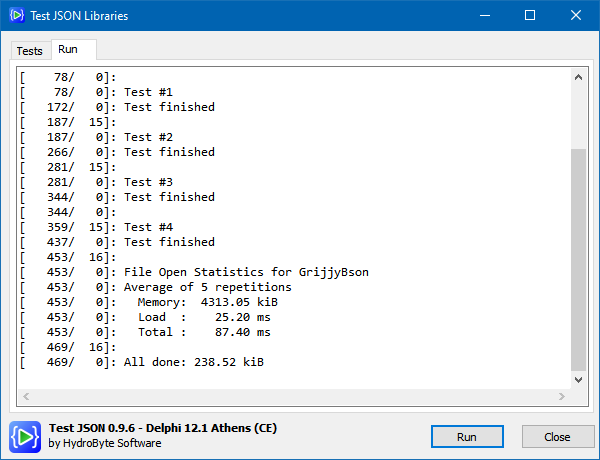
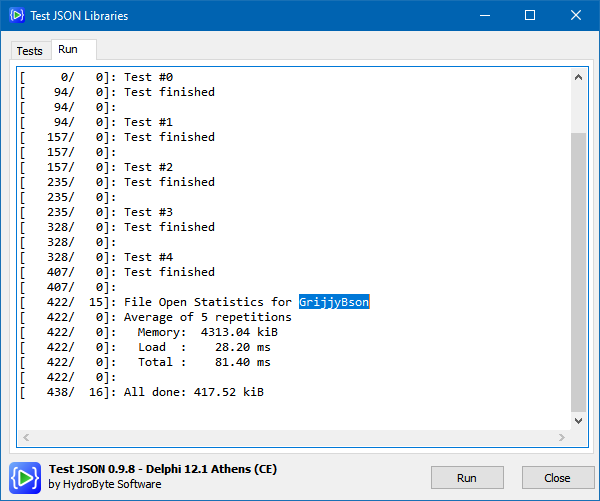
Update Open file tests. Update README.md Conclusions.

diff --git a/README.md b/README.md
@@ -188,10 +188,10 @@ This is a simple test to open files with any library included into this project 
 
 Library             |  Memory | Factor    | Load Time | Pitfalls          |
 :-------------------|--------:|----------:|----------:|------------------:|
-`JsonDataObjects`   |  2143.2 |        2x |     12.20 | Leaks memory      |
-`JsonDoc`           |  1672.9 |        2x |     59.40 |                   |
-`Grijjy.Bson`       |  4313.1 |        4x |     25.20 | Leaks memory      |
+`JsonDataObjects`   |  2143.2 |        2x |     12.20 |                   |
+`Grijjy.Bson`       |  4313.1 |        4x |     28.20 |                   |
 `dwsJSON`           |  4776.2 |        5x |     15.40 |                   |
+`JsonDoc`           |  5024.6 |        5x |     18.80 |                   |
 `Neslib.Json`       |  4676.6 |        5x |     21.80 |                   |
 `LkJson`            |  6291.7 |        6x |     72.00 |                   |
 `SuperObject`       |  7180.1 |        7x |     68.60 |                   |
@@ -212,22 +212,22 @@ Notes:
 - Allocation Factor = Round(Memory in kiB / 1000 kiB).
 - Load time in milliseconds.
 
-The Top-Three libraries with the lowest memory consumption are: `JsonDoc`, `JsonDataObjects` and `Grijjy.Bson`. These last two presented problems of Memory Leaking, but the `TLib` descendant classes use simple Create, LoadFromFile/Parse and Free methods.
+The Top-Three libraries with the lowest memory consumption (allocation factor) are: `JsonDataObjects`, `Grijjy.Bson` and `dwsJSON`. It is worth highlighting the superior performance of the combined factors from `JsonDataObjects`.
 
-The Top-Three fastest libraries in terms of loading time are: `JsonDataObjects`, `dwsJSON` and `Neslib.Json`. This last one keeps consistent with `Speed` tests results.
+The Top-Three fastest libraries in terms of loading time are: `JsonDataObjects`, `dwsJSON` and `JsonDoc`. 
 
-In general, `JsonDoc` might be considered the best library in respect of memory consumption and loading time tradeoff, highlighting its remarkable low memory and allocation factor without pitfalls. Also, `JsonDataObjects` has a good chance of keeping the top spot once the cause of the memory leak is found.
+In general, `JsonDataObjects` might be considered the best library in respect of memory consumption and loading time tradeoff, highlighting its remarkable low memory and allocation factor without pitfalls.
 
 ## Conclusions
 1. All `Speed Run` tests with `Delphi` version are twice as fast as with `C++Builder`.
 
-2. `JsonDataObjects` is the fastest library tested until now, closely followed `Neslib.Json`, `Grijjy.Bson` and `mORMot2` (technical draw). But `JsonDataObjects` is leaking memory in all tests.
+2. `JsonDataObjects` is the fastest library tested until now, closely followed `Neslib.Json`, `mORMot2` and `Grijjy.Bson` (technical draw). 
 
 3. The `Validation` tests can demonstrate that even the most modern libraries can have occasional small violations against the standard. Total clear for `McJSON`, `JsonDataObjects` and `VSoft.YAML`.
 
 4. The `Open File` tests using a file slightly larger than most common JSON uses demonstrate significant variation in terms of loading time and allocation factor.
 
-5. Considering JSON files with a larger amount of data, there are significant differences in terms of memory consumption and loading time. The positive highlight is `JsonDoc`.
+5. Considering JSON files with a larger amount of data, there are significant differences in terms of memory consumption and loading time. The positive highlight is `JsonDataObjects`.
 
 6. For JSON structures with less than 5000 objects, the choice of libraries can be screened not only based on performance. Standard/Compiler compatibility and ease of use should have priority in terms of choice criterion.
 
